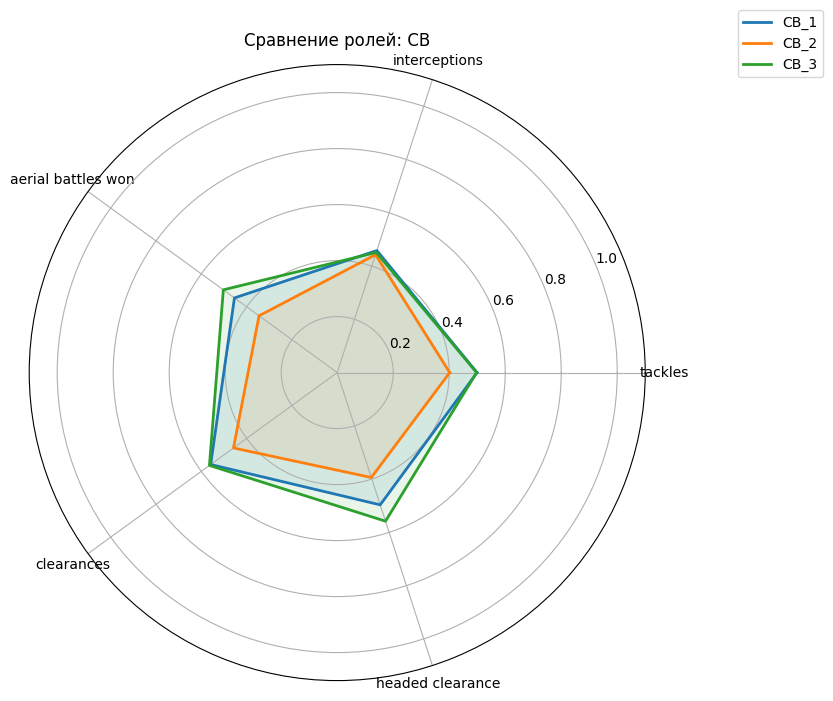
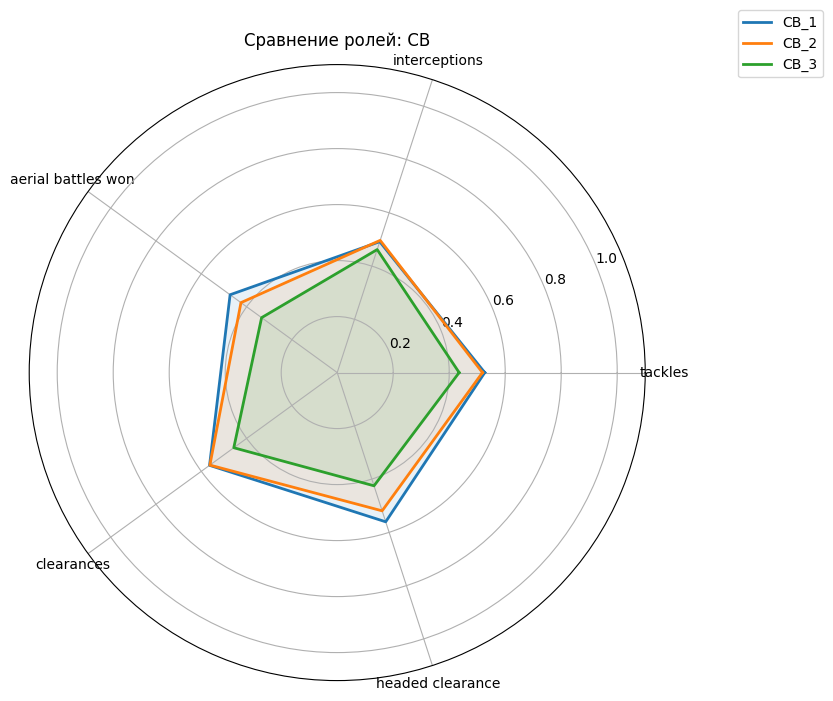
Wingers Are Now FW (Used To Be MF)

Changed region(s): [[0.2497, 0.3295, 0.593, 0.7489]]

diff --git a/app/ai/clusterer.py b/app/ai/clusterer.py
@@ -39,9 +39,11 @@ def create_style_ratios(numeric_data, zone):
         
     return ratios
 
-def softmax(distances, T=1.0):
-    exp_dist = np.exp(-distances / T)
-    return exp_dist / np.sum(exp_dist, axis=1, keepdims=True)
+def calculate_soft_probabilities(distances):
+    # Используем инверсию расстояний для более высокой чувствительности.
+    # Добавляем epsilon (1e-5), чтобы избежать деления на ноль.
+    inv_distances = 1.0 / (distances + 1e-5)
+    return inv_distances / np.sum(inv_distances, axis=1, keepdims=True)
 
 def compute_clusters():
     raw_df = get_prepared_data()
@@ -65,12 +67,22 @@ def compute_clusters():
     player_zones = {}
     for i, row in df_working.iterrows():
         pos = str(row['position']).upper()
+        # Статистические триггеры для уточнения роли
+        has_wing_tendency = row.get('crosses', 0) > 1.2 or row.get('dribbles', 0) > 1.0
+        
         if pos == 'DF':
-            target = 'FB' if (row.get('crosses', 0) > 0.5 or row.get('dribbles', 0) > 0.4) else 'CB'
+            # Защитники: фланговые (FB) или центральные (CB)
+            target = 'FB' if has_wing_tendency else 'CB'
         elif pos == 'MF':
-            target = 'WG' if (row.get('dribbles', 0) > 0.8 or row.get('crosses', 0) > 1.2) else 'CM'
+            # Полузащитники: теперь ВСЕ MF идут в CM. 
+            # Бруну и созидатели просто сформируют свой кластер внутри CM (например, CM_1)
+            target = 'CM'
+        elif pos == 'FW':
+            # Нападающие: если много дриблинга/кроссов — вингер (WG), иначе — форвард (ST)
+            target = 'WG' if has_wing_tendency else 'ST'
         else:
-            target = 'ST' if pos == 'FW' else (pos if pos in zones_config else 'CM')
+            target = pos if pos in zones_config else 'CM'
+            
         player_zones[row['player_name']] = target
 
     final_labels = {}
@@ -88,25 +100,31 @@ def compute_clusters():
             scaler = StandardScaler()
             features_scaled = scaler.fit_transform(input_data)
             
-            if np.allclose(features_scaled, features_scaled[0]):
-                features_scaled += np.random.normal(0, 1e-7, features_scaled.shape)
+            # Добавляем Jitter (микро-шум), чтобы разлепить идентичные точки
+            features_scaled += np.random.normal(0, 1e-6, features_scaled.shape)
 
             kmeans = KMeans(n_clusters=config['n'], random_state=42, n_init=30)
             labels = kmeans.fit_predict(features_scaled)
             
+            # Получаем матрицу расстояний до всех центроидов
             distances = kmeans.transform(features_scaled)
-            probs = softmax(distances, T=1.0)
+            
+            # Вычисляем вероятности через инверсию (вместо Softmax)
+            probs = calculate_soft_probabilities(distances)
             
             for i, p_name in enumerate(zone_df['player_name']):
                 c_idx = labels[i]
                 role_name = f"{config['prefix']}{c_idx + 1}"
                 final_labels[p_name] = role_name
+                
+                # Сохраняем результаты с высокой точностью
                 confidence_scores[p_name] = {
                     'role': role_name,
-                    'confidence': round(float(probs[i][c_idx]), 3),
-                    'probabilities': {f"{config['prefix']}{j+1}": round(float(p), 3) for j, p in enumerate(probs[i])}
+                    'confidence': round(float(probs[i][c_idx]), 4),
+                    'probabilities': {f"{config['prefix']}{j+1}": round(float(p), 4) for j, p in enumerate(probs[i])}
                 }
         except Exception as e:
+            print(f"Error in clustering {zone}: {e}")
             continue
 
     return final_labels, confidence_scores
